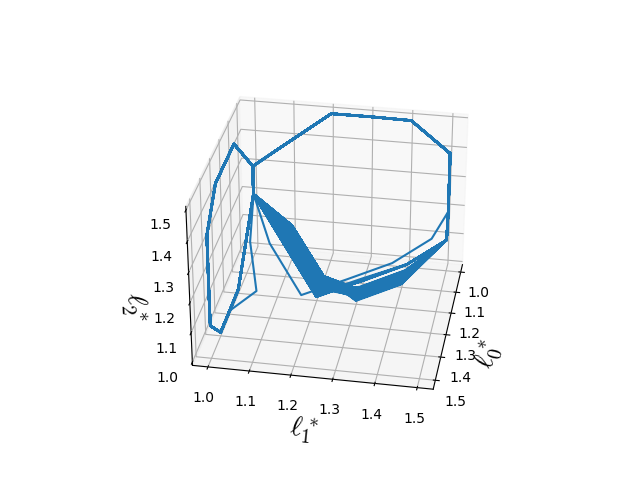
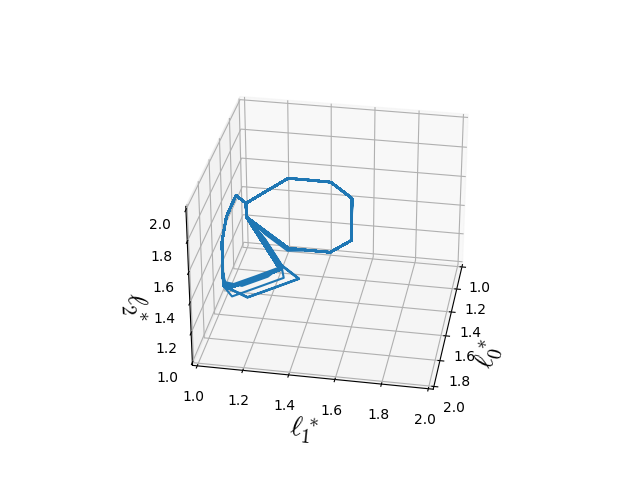
commit

diff --git a/sim/analysis/arm_length/arm_length_space_triangle.py b/sim/analysis/arm_length/arm_length_space_triangle.py
@@ -11,23 +11,14 @@ plt.rcParams['mathtext.fontset'] = 'cm'
 plt.rcParams['font.size'] = 10
 
 def main():
-<<<<<<< HEAD
-    plot_start = 10
-=======
     plot_start = 500
->>>>>>> c60e93d62cd34e1221f7e9ed626bf93dcf357cc0
     plot_end   = 1000
     dt = 0.1
 
     # intervals = np.arange(0.1, 1.0, 0.2)
     # lengths = np.arange(1.1, 2.0, 0.2)
-<<<<<<< HEAD
-    intervals = [0.9]
-    lengths = [1.9]
-=======
-    intervals = [0.3]
-    lengths   = [1.3]
->>>>>>> c60e93d62cd34e1221f7e9ed626bf93dcf357cc0
+    intervals = [0.1]
+    lengths   = [1.5]
 
     for interval in tqdm(intervals):
         for length in tqdm(lengths, leave=False):
